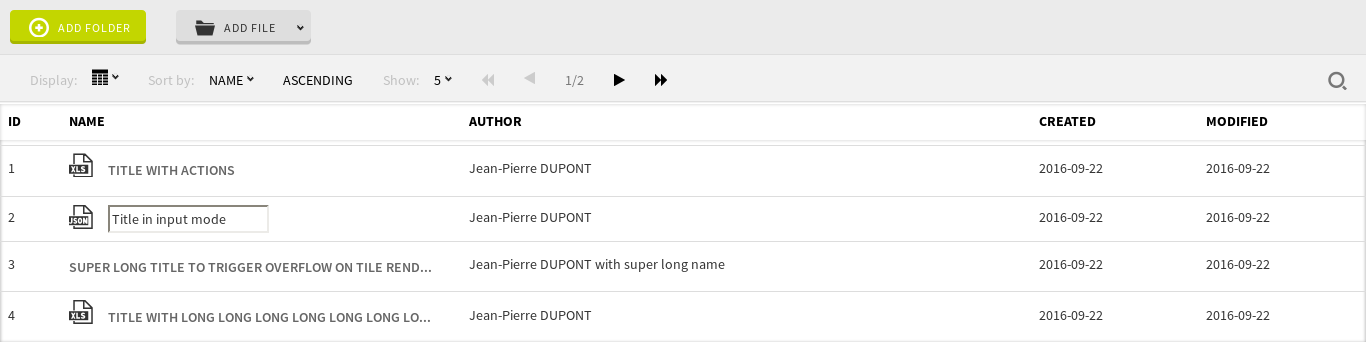
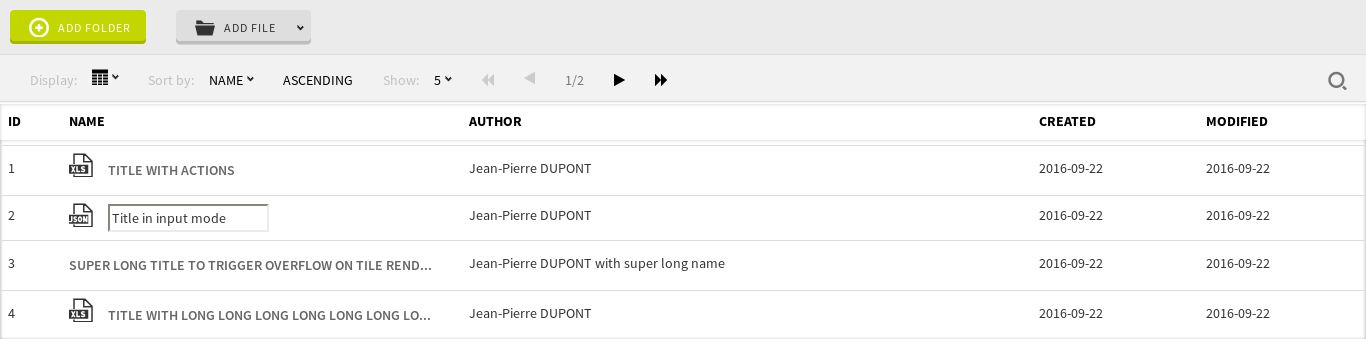
fix(Components): List actions appears on hover on the right above the tr content (#140)
* fix(Components): List actions appears on hover on the right above the tr content

* test(ci): update screenshots

* test(ci): update code style outputs

* Use padding theme var

* style: use sass var from theme

* test(ci): update screenshots

* Set actions above the rest of the values

* test(ci): update code style outputs

diff --git a/packages/components/stories/List.js b/packages/components/stories/List.js
@@ -34,6 +34,36 @@ const selected = [
 		author: 'Jean-Pierre DUPONT',
 		icon: 'talend-file-json-o',
 	}];
+
+const actions = [
+	{
+		label: 'edit',
+		icon: 'talend-pencil',
+		onClick: action('onEdit'),
+	},
+	{
+		label: 'delete',
+		icon: 'talend-trash',
+		onClick: action('onDelete'),
+	},
+	{
+		displayMode: 'dropdown',
+		label: 'related items',
+		icon: 'talend-folder',
+		items: [
+			{
+				label: 'document 1',
+				onClick: action('document 1 click'),
+			},
+			{
+				label: 'document 2',
+				onClick: action('document 2 click'),
+			},
+		],
+		pullRight: true,
+	},
+];
+
 const props = {
 	id: 'talend',
 	displayMode: 'table',
@@ -52,33 +82,7 @@ const props = {
 				created: '2016-09-22',
 				modified: '2016-09-22',
 				author: 'Jean-Pierre DUPONT',
-				actions: [
-					{
-						label: 'edit',
-						icon: 'talend-pencil',
-						onClick: action('onEdit'),
-					},
-					{
-						label: 'delete',
-						icon: 'talend-trash',
-						onClick: action('onDelete'),
-					},
-					{
-						displayMode: 'dropdown',
-						label: 'related items',
-						icon: 'talend-folder',
-						items: [
-							{
-								label: 'document 1',
-								onClick: action('document 1 click'),
-							},
-							{
-								label: 'document 2',
-								onClick: action('document 2 click'),
-							},
-						],
-					},
-				],
+				actions,
 				icon: 'talend-file-xls-o',
 				display: 'text',
 				className: 'item-0-class',
@@ -107,33 +111,7 @@ const props = {
 				created: '2016-09-22',
 				modified: '2016-09-22',
 				author: 'Jean-Pierre DUPONT',
-				actions: [
-					{
-						label: 'edit',
-						icon: 'talend-pencil',
-						onClick: action('onEdit'),
-					},
-					{
-						label: 'delete',
-						icon: 'talend-trash',
-						onClick: action('onDelete'),
-					},
-					{
-						displayMode: 'dropdown',
-						label: 'related items',
-						icon: 'talend-folder',
-						items: [
-							{
-								label: 'document 1',
-								onClick: action('document 1 click'),
-							},
-							{
-								label: 'document 2',
-								onClick: action('document 2 click'),
-							},
-						],
-					},
-				],
+				actions,
 				icon: 'talend-file-xls-o',
 				display: 'text',
 				className: 'item-3-class',

diff --git a/packages/components/src/List/DisplayLarge/DisplayLarge.scss b/packages/components/src/List/DisplayLarge/DisplayLarge.scss
@@ -1,15 +1,19 @@
 // DisplayLarge styles
 $tc-list-display-large-color: #AAA !default;
+$tc-list-display-large-background-color: lighten($tc-list-display-large-color, 25%) !default;
 
 .container {
-	padding: 20px;
+	padding: $padding-large;
 }
 
 .panel {
+	position: relative;
+
 	&:hover {
-		background-color: lighten($tc-list-display-large-color, 25%);
+		background-color: $tc-list-display-large-background-color;
 
 		:global(.tc-actions) {
+			opacity: 1;
 			visibility: visible;
 		}
 
@@ -20,12 +24,18 @@ $tc-list-display-large-color: #AAA !default;
 	}
 
 	:global(.tc-actions) {
+		transition: opacity 0.15s ease-in;
+		opacity: 0;
 		visibility: hidden;
+		position: absolute;
+		right: 0;
+		background: linear-gradient(to right, transparent, $tc-list-display-large-background-color $padding-large);
+		padding-left: $padding-large;
 	}
 }
 
 .columns {
-	margin-top: 15px;
+	margin-top: $padding-normal;
 	display: flex;
 
 	& ul {
@@ -42,7 +52,7 @@ $tc-list-display-large-color: #AAA !default;
 
 .head {
 	display: flex;
-	padding: 0 15px;
+	padding: 0 $padding-normal;
 }
 
 .label {

diff --git a/packages/components/src/List/DisplayTable/DisplayTable.scss b/packages/components/src/List/DisplayTable/DisplayTable.scss
@@ -79,7 +79,8 @@ $tc-list-table-header-height: 36px !default;
 			.tc-list-display-table-td {
 
 				.cell + .actions {
-					width: auto;
+					opacity: 1;
+					visibility: visible;
 				}
 			}
 		}
@@ -93,9 +94,17 @@ $tc-list-table-header-height: 36px !default;
 				min-width: 0;
 
 				+ .actions {
+					transition: opacity 0.15s ease-in;
 					flex-shrink: 0;
 					flex-grow: 0;
-					width: 0;
+					opacity: 0;
+					visibility: hidden;
+					z-index: 1;
+
+					position: absolute;
+					right: 0;
+					background: linear-gradient(to right, transparent, $tc-list-table-hover-bg $padding-large);
+					padding-left: $padding-large;
 				}
 			}
 		}
